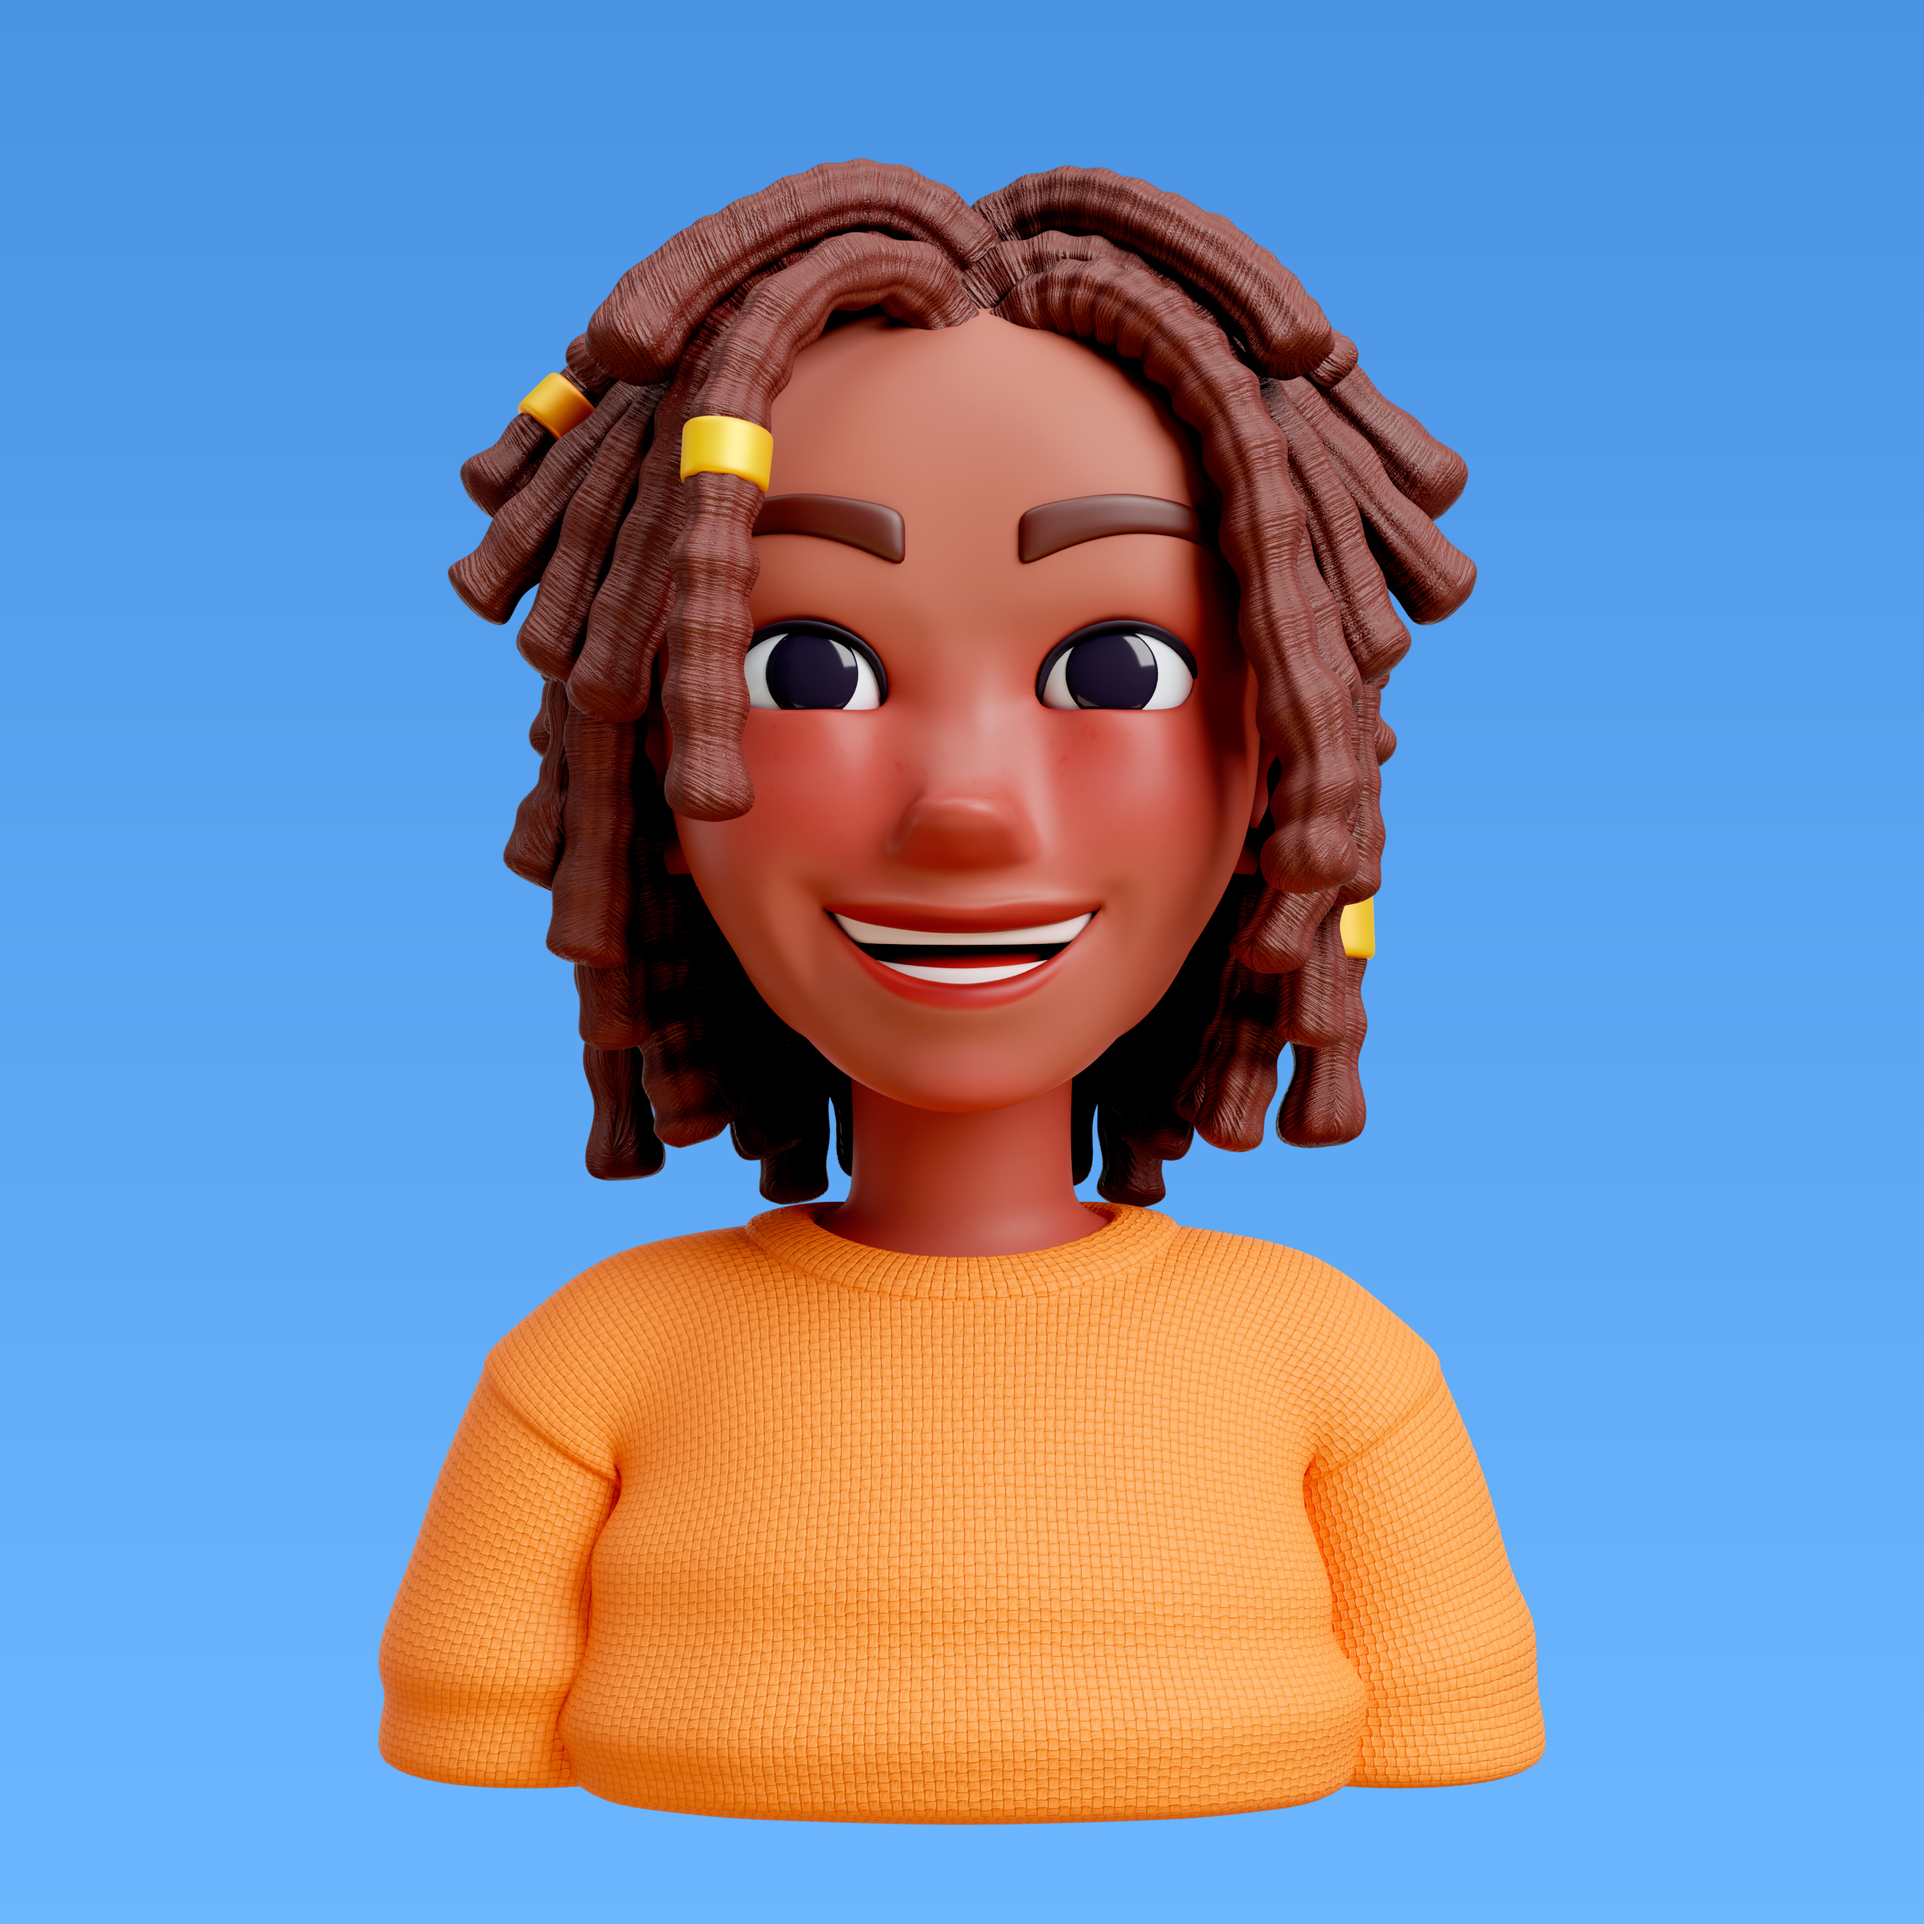
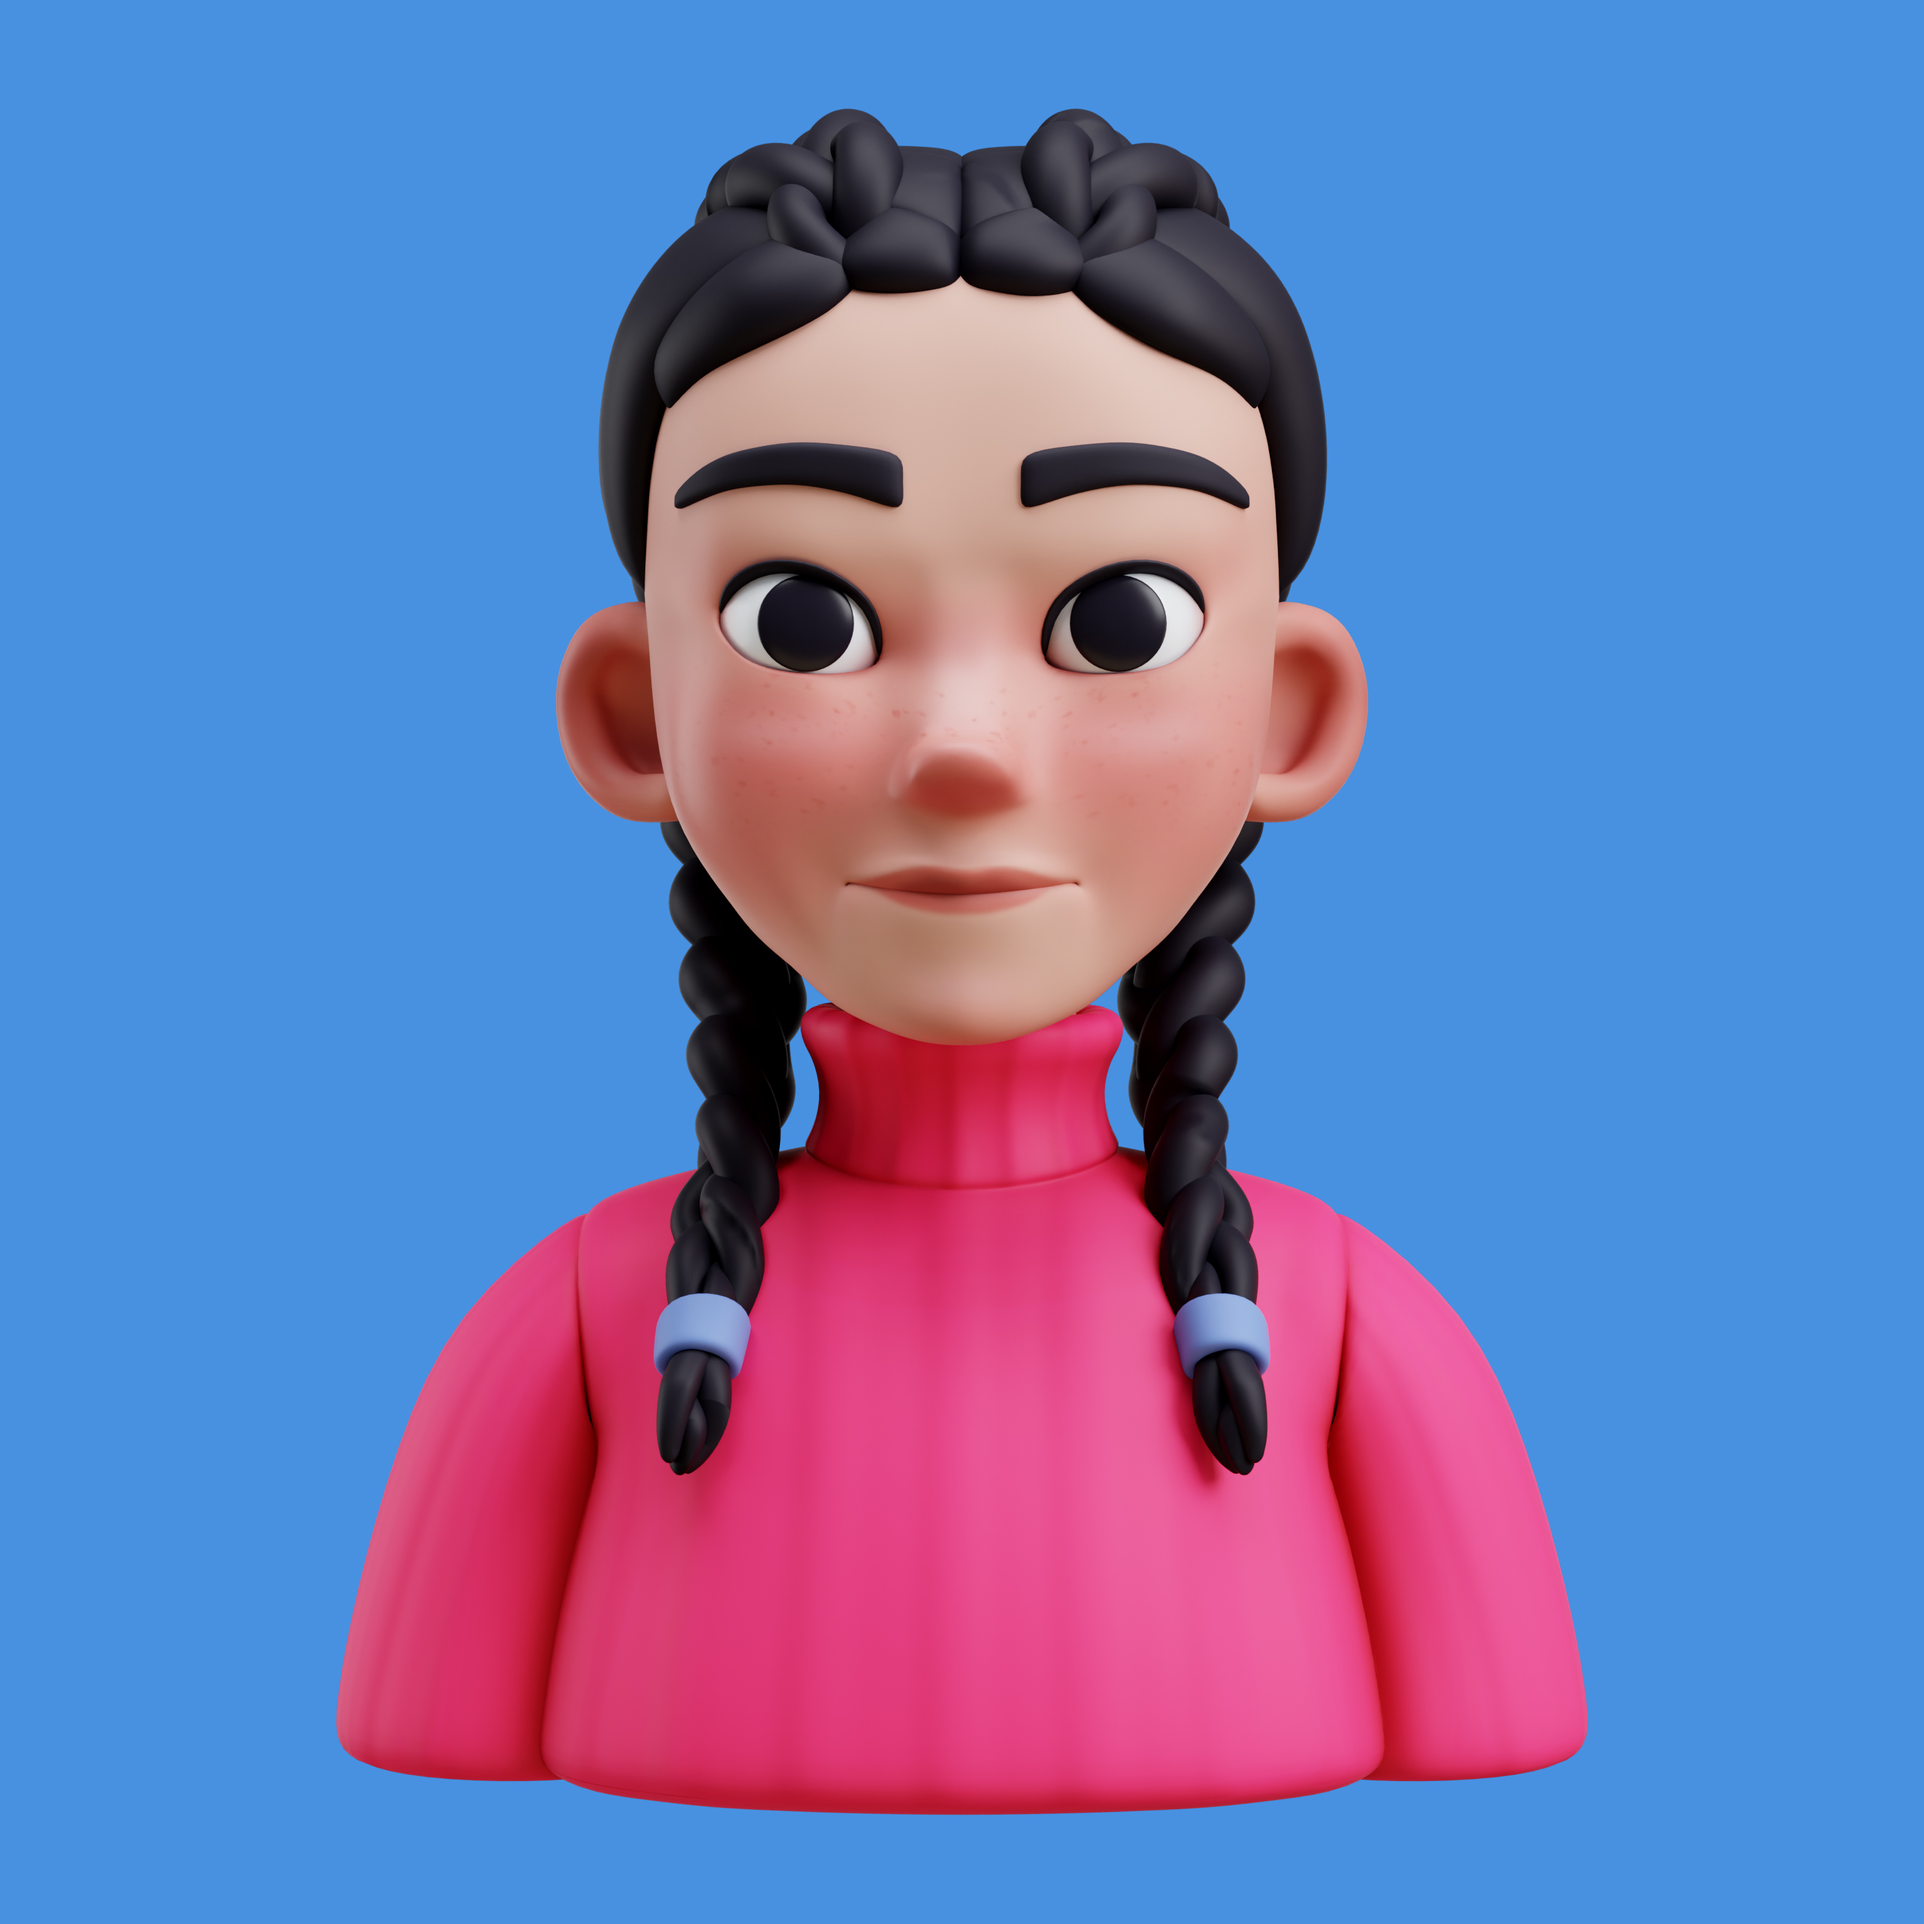
Add files via upload

diff --git a/styles.css b/styles.css
@@ -1,0 +1,157 @@
+body {
+    font-family: Arial, sans-serif;
+    background-color: #f4f4f4;
+    margin: 0;
+    padding: 0;
+}
+
+* {
+    margin: 0;
+    padding: 0;
+    box-sizing: border-box;
+}
+
+body {
+    font-family: Arial, sans-serif;
+    margin: 0;
+    padding: 0;
+    background-color: #ffffff;
+}
+
+header {
+    align-items: center;
+    padding: 1rem;
+    background-color: beige;
+}
+
+h2 {
+    color:#555;
+}
+
+.headerin {
+    display: flex; 
+    justify-content: center; 
+    align-items: center;
+}
+
+@media screen and (max-width: 599px) {
+    .headerin {
+        font-size: x-small;
+    }
+}
+
+.sponsors {
+    text-align: center;
+    padding: 8rem 3rem;
+    background-color: #fff;
+    box-shadow: 0 2px 4px rgba(0, 0, 0, 0.1);
+}
+
+section {
+    text-align: center;
+    padding: 8rem 3rem;
+    background-color: #fff;
+    box-shadow: 0 2px 4px rgba(0, 0, 0, 0.1);
+}
+
+h2 {
+    font-size: 2em;
+    margin-bottom: 20px;
+    color: #333;
+}
+
+.sponsor-container {
+    display: flex;
+    flex-wrap: wrap;
+    justify-content: center;
+    gap: 20px;
+}
+
+.sponsor {
+    background-color: #eaeaea;
+    padding: 20px;
+    border-radius: 10px;
+    width: 150px;
+    text-align: center;
+    box-shadow: 0 2px 4px rgba(0, 0, 0, 0.1);
+    transition: transform 0.3s ease;
+}
+
+.sponsor img {
+    max-width: 100%;
+    height: auto;
+    margin-bottom: 10px;
+}
+
+.sponsor p {
+    margin: 0;
+    font-size: 1em;
+    color: #555;
+}
+
+.sponsor:hover {
+    transform: scale(1.05);
+}
+
+footer {
+    height: 100px;
+    background-color: #555;
+    color: white;
+    padding: 3rem 3rem 0 3rem;
+    justify-items: center;
+}
+
+.product-grid {
+    display: flex;
+    flex-wrap: wrap;
+    justify-content: center;
+    gap: 20px;
+    padding: 20px;
+}
+
+.product-card {
+    background-color: #fff;
+    border: 1px solid #ddd;
+    border-radius: 5px;
+    box-shadow: 0 2px 5px rgba(0, 0, 0, 0.1);
+    width: 200px;
+    text-align: center;
+    padding: 20px;
+    transition: transform 0.2s;
+}
+
+.product-card:hover {
+    transform: scale(1.05);
+}
+
+.product-card img {
+    max-width: 100%;
+    max-height: 120px;
+    border-bottom: 1px solid #ddd;
+    padding-bottom: 15px;
+}
+
+.product-card h2 {
+    font-size: 1.2em;
+    margin: 15px 0;
+}
+
+.product-card .price {
+    color: #888;
+    font-size: 1em;
+    margin: 10px 0;
+}
+
+.product-card button {
+    background-color: #28a745;
+    color: #fff;
+    border: none;
+    padding: 10px 20px;
+    border-radius: 5px;
+    cursor: pointer;
+    transition: background-color 0.2s;
+}
+
+.product-card button:hover {
+    background-color: #218838;
+}
